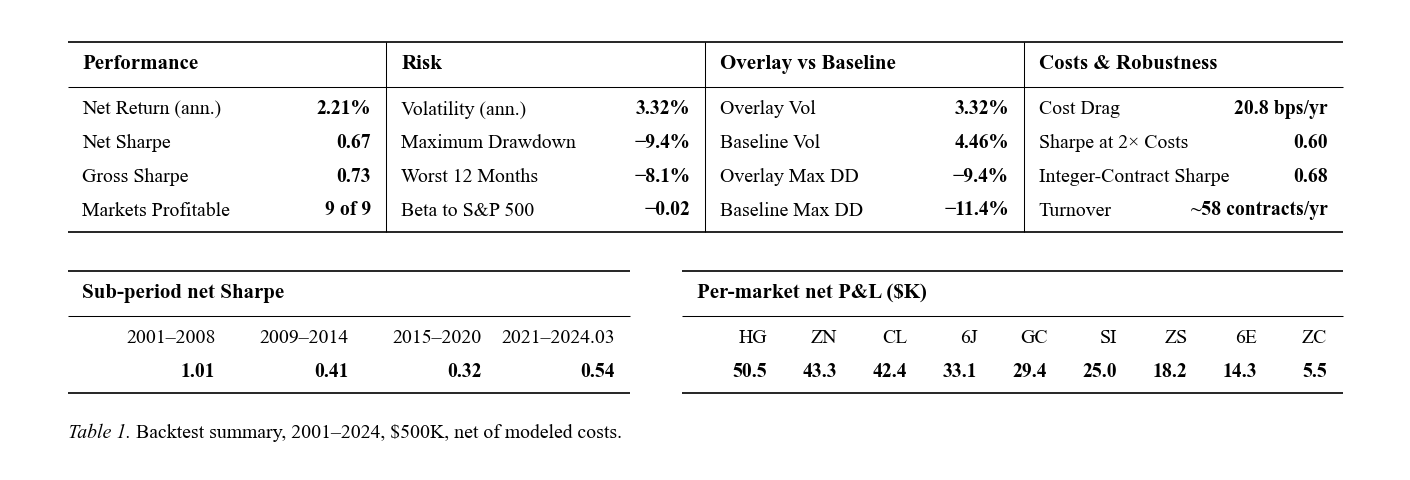
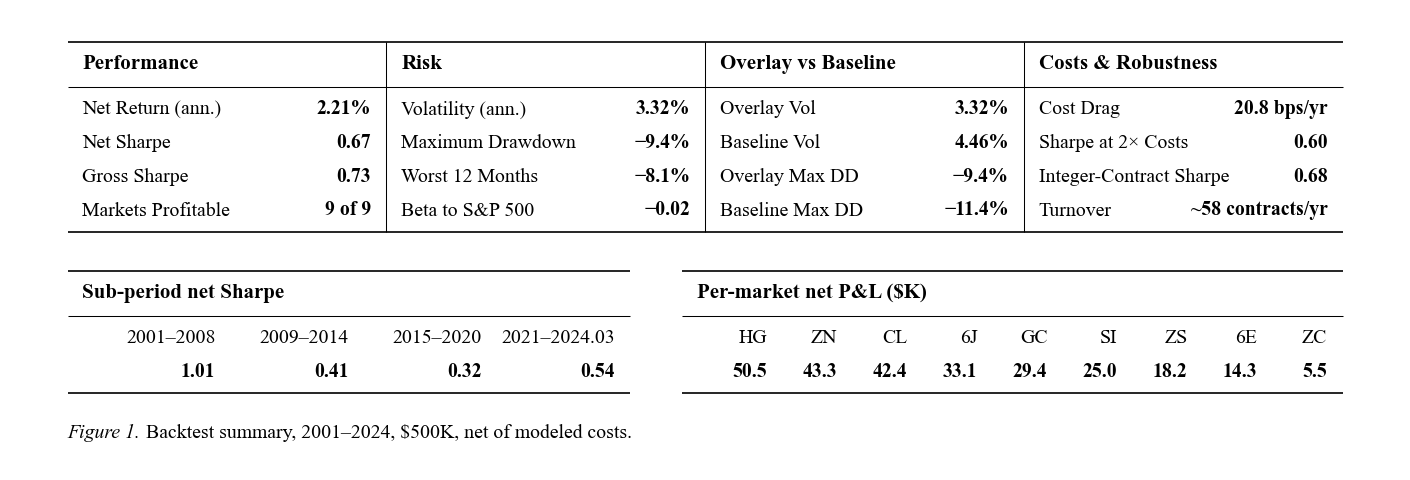
Exhibits: renumber so the summary table is Figure 1
No data or styling changes; FIG1-FIG4 PNGs are byte-identical.

- FIG_summary_table.png in-image caption: "Table 1." -> "Figure 1." (label
  still italic serif). CAPTION tuple in exhibit_restyle.py updated.
- exhibits.md: the summary table moves to the top of the page as Figure 1;
  equity curves become Figure 2, drawdown Figure 3, SI-2011 diagnostic
  Figure 4, annual returns Figure 5. The two markdown tables close the gap:
  sub-periods become Table 1, cost decomposition Table 2.
- The four charts carry no figure numbers inside the image (title and
  subtitle only), so their PNGs need no change. Filenames FIG1_..FIG4_ are
  left as-is and no longer match the page numbering.

Changed region(s): [[0.0312, 0.875, 0.4369, 0.9375]]

diff --git a/scripts/exhibit_restyle.py b/scripts/exhibit_restyle.py
@@ -250,7 +250,7 @@ GROUPS = [
                             ("Turnover", f"~{cost_mean[4]} contracts/yr")]),
 ]
 PNL_COLS = sorted(pnl.items(), key=lambda kv: -kv[1])
-CAPTION = ("Table 1.", " Backtest summary, 2001–2024, $500K, "
+CAPTION = ("Figure 1.", " Backtest summary, 2001–2024, $500K, "
            "net of modeled costs.")
 
 # Printed-table styling: serif (the report body face), black on white only,

diff --git a/exhibits.md b/exhibits.md
@@ -5,32 +5,32 @@ target split 1/9 per market. Net = after rebalance, roll, and stress costs.
 All numbers from strategy_results.md (spec: strategy_spec_v1.md); figures
 generated by scripts/exhibit_restyle.py.
 
-![Figure 1](FIG1_equity.png)
-**Figure 1.** Cumulative net P&L, overlay vs baseline, 2001–2024, $500K.
-Inset: net Sharpe and maximum drawdown per variant.
-
-![Figure 2](FIG2_drawdown.png)
-**Figure 2.** Drawdown from high-water mark, net, with the five worst overlay
-episodes shaded and labeled. The overlay's maximum drawdown is −9.4% of
-capital vs −11.4% for the realized-vol-only baseline.
-
-![Figure 3](FIG3_si2011.png)
-**Figure 3.** Margin-based sizing around the 2011 silver margin episode.
-Shaded bands are the 10-trading-day de-risk windows; dotted lines mark the
-qualifying margin-hike effective dates.
-
-![Figure 4](FIG4_annual.png)
-**Figure 4.** Net return by calendar year, overlay variant (2024 through
-03-28). Era dependence is visible: the strong years cluster in 2001–2008,
-with thinner returns after.
-
-![Table 1](FIG_summary_table.png)
-**Table 1.** Backtest summary, overlay variant, factsheet format: performance,
+![Figure 1](FIG_summary_table.png)
+**Figure 1.** Backtest summary, overlay variant, factsheet format: performance,
 risk, overlay vs baseline, and costs/robustness, with sub-period net Sharpe
 and per-market net P&L beneath. Beta vs SPY (Yahoo, full sample 2001-01 –
 2024-03).
 
-**Table 2.** Sub-periods, net (ann ret / ann vol / Sharpe / max DD).
+![Figure 2](FIG1_equity.png)
+**Figure 2.** Cumulative net P&L, overlay vs baseline, 2001–2024, $500K.
+Inset: net Sharpe and maximum drawdown per variant.
+
+![Figure 3](FIG2_drawdown.png)
+**Figure 3.** Drawdown from high-water mark, net, with the five worst overlay
+episodes shaded and labeled. The overlay's maximum drawdown is −9.4% of
+capital vs −11.4% for the realized-vol-only baseline.
+
+![Figure 4](FIG3_si2011.png)
+**Figure 4.** Margin-based sizing around the 2011 silver margin episode.
+Shaded bands are the 10-trading-day de-risk windows; dotted lines mark the
+qualifying margin-hike effective dates.
+
+![Figure 5](FIG4_annual.png)
+**Figure 5.** Net return by calendar year, overlay variant (2024 through
+03-28). Era dependence is visible: the strong years cluster in 2001–2008,
+with thinner returns after.
+
+**Table 1.** Sub-periods, net (ann ret / ann vol / Sharpe / max DD).
 
 | Period | Overlay | Baseline |
 |---|---|---|
@@ -39,7 +39,7 @@ and per-market net P&L beneath. Beta vs SPY (Yahoo, full sample 2001-01 –
 | 2015–2020 | 0.71% / 2.22% / 0.32 / −3.8% | 0.69% / 4.14% / 0.17 / −10.5% |
 | 2021–2024.03 | 1.28% / 2.36% / 0.54 / −4.6% | 3.11% / 4.61% / 0.67 / −7.9% |
 
-**Table 3.** Cost decomposition, overlay variant (bps of capital per year;
+**Table 2.** Cost decomposition, overlay variant (bps of capital per year;
 sample years shown).
 
 | Year | Rebal bps | Roll bps | Stress bps | Total bps | Contracts | Notional $M |
